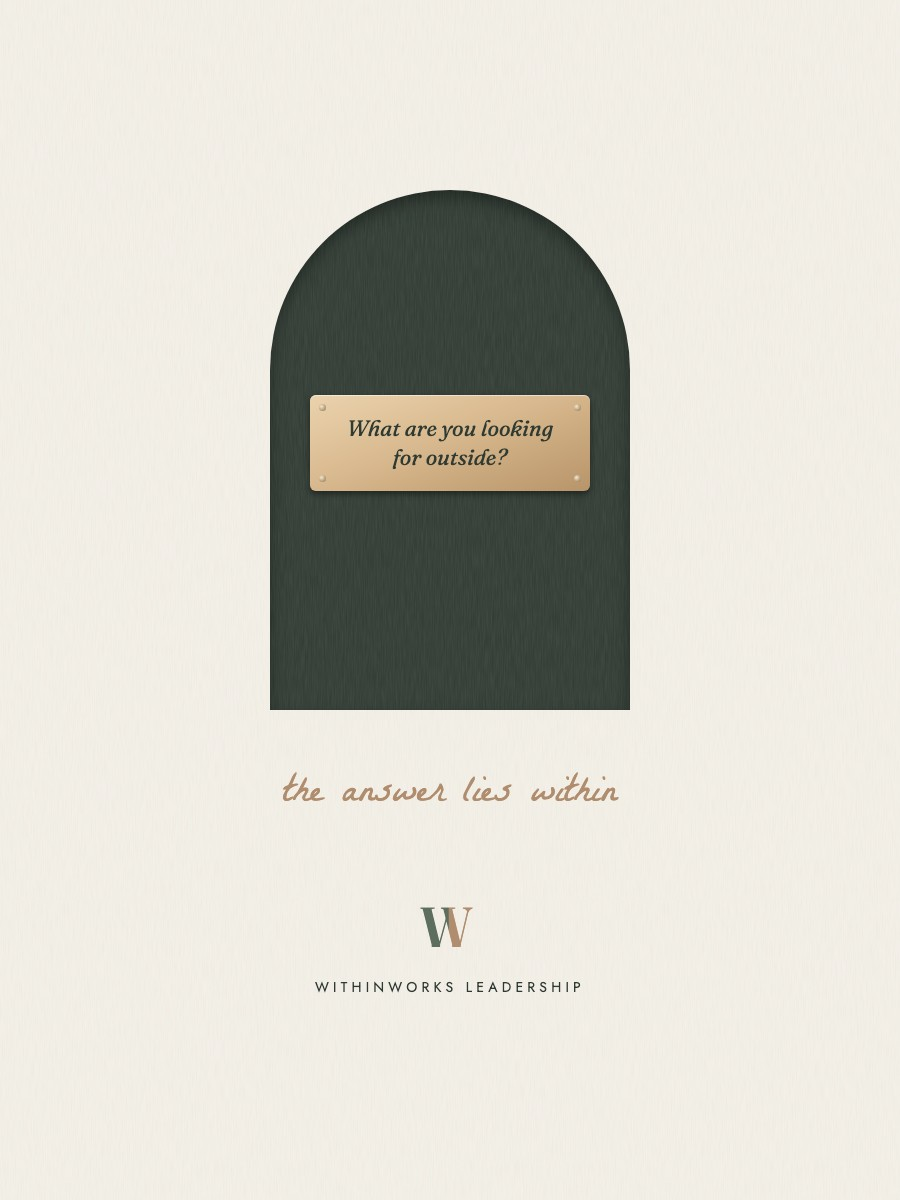
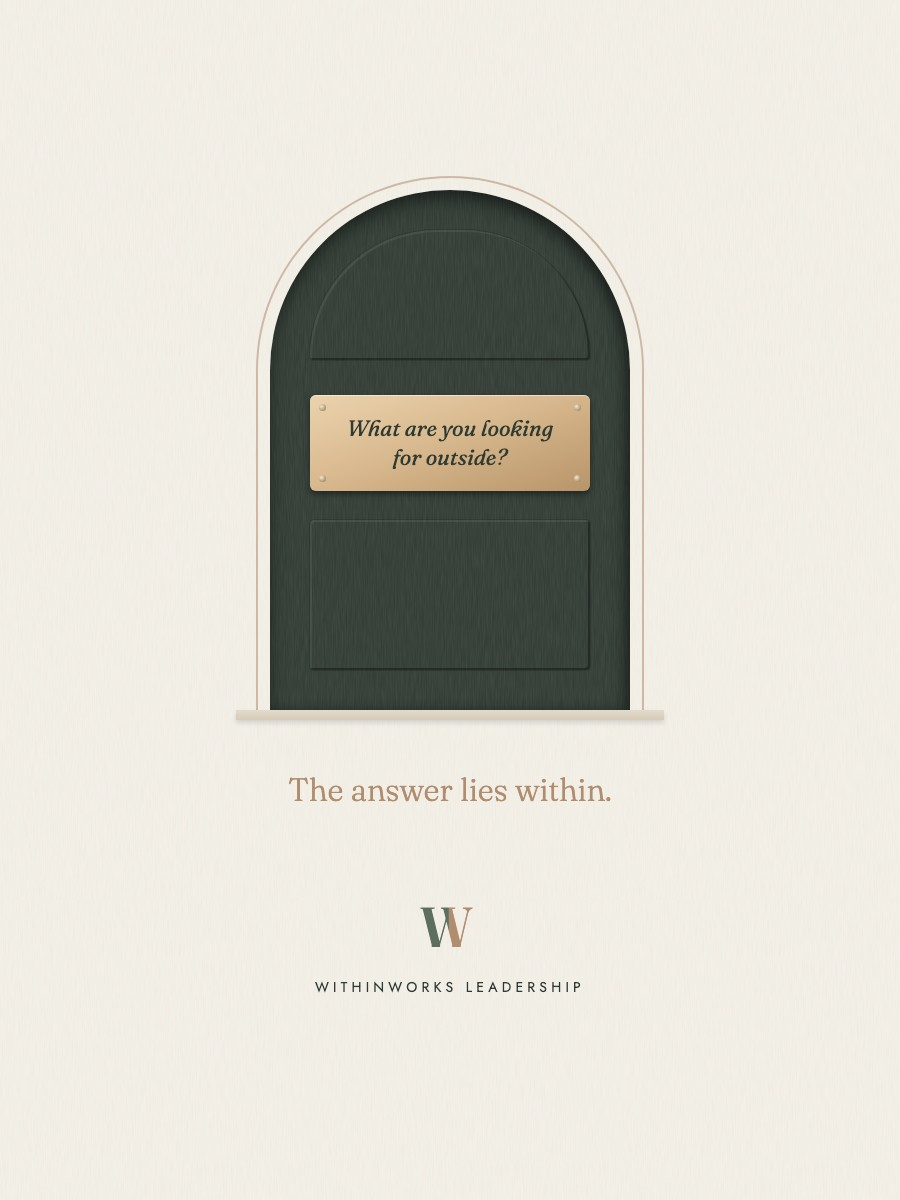
Printables: the door gets a frame, panels and a step; upright answer line

Changed region(s): [[0.2489, 0.5858, 0.7467, 0.6167], [0.3111, 0.6475, 0.6844, 0.6783]]

diff --git a/printables-test.html b/printables-test.html
@@ -19,12 +19,12 @@
 <header class="top"><div class="shell">
 <a class="brand" href="./"><svg class="mark"><use href="#ww"/></svg><span><b>WithinWorks</b><small>The Brain</small></span></a><a class="crumb" href="./">&larr; Brain</a>
 </div></header>
-<section class="page-hero"><div class="shell"><p class="eyebrow">Printables</p><h1>For the <em>hand</em></h1><p class="lede">A folder for client meetings and a small journal for the sessions. First look, before print files.</p></div></section><section><div class="shell"><div class="card" style="padding:0;overflow:hidden;margin-bottom:28px"><img src="printables/fm-a.jpg?v=1794315943" alt="Folder A, The path: front and back" style="width:100%;display:block">
-<div style="padding:22px 26px"><h3>Folder A, The path: front and back</h3><p>Front: a die-cut S-curve flap opens onto a pearl-green layer; the W and name in gold foil. Back: her words with her name and credentials, the Instagram and website QR codes, and her contact details.</p></div></div><div class="card" style="padding:0;overflow:hidden;margin-bottom:28px"><img src="printables/fi-a.jpg?v=1794315943" alt="Folder A, inside" style="width:100%;display:block">
-<div style="padding:22px 26px"><h3>Folder A, inside</h3><p>Left: the journey from her website, rising from where you are today to your next chapter. Right: a session sheet and a pocket whose wave edge echoes the front, with her card.</p></div></div><div class="card" style="padding:0;overflow:hidden;margin-bottom:28px"><img src="printables/fm-c.jpg?v=1794315943" alt="Folder B, The door: front and back" style="width:100%;display:block">
-<div style="padding:22px 26px"><h3>Folder B, The door: front and back</h3><p>The light version: an ivory cover with an arched forest door. A brass nameplate on the door asks “What are you looking for outside?”, and below the door, in her hand, “the answer lies within”. Back in ivory with forest QR codes.</p></div></div><div class="card" style="padding:0;overflow:hidden;margin-bottom:28px"><img src="printables/fi-c.jpg?v=1794315943" alt="Folder B, inside" style="width:100%;display:block">
-<div style="padding:22px 26px"><h3>Folder B, inside</h3><p>The same journey and pocket, on ivory, with an arch notch so the card lifts out easily.</p></div></div><div class="card" style="padding:0;overflow:hidden;margin-bottom:28px"><img src="printables/journal-closed.jpg?v=1794315943" alt="Journal, “Notes from within”" style="width:100%;display:block">
-<div style="padding:22px 26px"><h3>Journal, “Notes from within”</h3><p>A small A5 journal in the same linen, the W pressed into the cover, a mocha elastic band.</p></div></div><div class="card" style="padding:0;overflow:hidden;margin-bottom:28px"><img src="printables/journal-open.jpg?v=1794315943" alt="Journal, inside" style="width:100%;display:block">
+<section class="page-hero"><div class="shell"><p class="eyebrow">Printables</p><h1>For the <em>hand</em></h1><p class="lede">A folder for client meetings and a small journal for the sessions. First look, before print files.</p></div></section><section><div class="shell"><div class="card" style="padding:0;overflow:hidden;margin-bottom:28px"><img src="printables/fm-a.jpg?v=1794316170" alt="Folder A, The path: front and back" style="width:100%;display:block">
+<div style="padding:22px 26px"><h3>Folder A, The path: front and back</h3><p>Front: a die-cut S-curve flap opens onto a pearl-green layer; the W and name in gold foil. Back: her words with her name and credentials, the Instagram and website QR codes, and her contact details.</p></div></div><div class="card" style="padding:0;overflow:hidden;margin-bottom:28px"><img src="printables/fi-a.jpg?v=1794316170" alt="Folder A, inside" style="width:100%;display:block">
+<div style="padding:22px 26px"><h3>Folder A, inside</h3><p>Left: the journey from her website, rising from where you are today to your next chapter. Right: a session sheet and a pocket whose wave edge echoes the front, with her card.</p></div></div><div class="card" style="padding:0;overflow:hidden;margin-bottom:28px"><img src="printables/fm-c.jpg?v=1794316170" alt="Folder B, The door: front and back" style="width:100%;display:block">
+<div style="padding:22px 26px"><h3>Folder B, The door: front and back</h3><p>The light version: an ivory cover with an arched forest door. A brass nameplate on the door asks “What are you looking for outside?”, and below the door, upright, “The answer lies within.”. Back in ivory with forest QR codes.</p></div></div><div class="card" style="padding:0;overflow:hidden;margin-bottom:28px"><img src="printables/fi-c.jpg?v=1794316170" alt="Folder B, inside" style="width:100%;display:block">
+<div style="padding:22px 26px"><h3>Folder B, inside</h3><p>The same journey and pocket, on ivory, with an arch notch so the card lifts out easily.</p></div></div><div class="card" style="padding:0;overflow:hidden;margin-bottom:28px"><img src="printables/journal-closed.jpg?v=1794316170" alt="Journal, “Notes from within”" style="width:100%;display:block">
+<div style="padding:22px 26px"><h3>Journal, “Notes from within”</h3><p>A small A5 journal in the same linen, the W pressed into the cover, a mocha elastic band.</p></div></div><div class="card" style="padding:0;overflow:hidden;margin-bottom:28px"><img src="printables/journal-open.jpg?v=1794316170" alt="Journal, inside" style="width:100%;display:block">
 <div style="padding:22px 26px"><h3>Journal, inside</h3><p>Her own tool on every spread: the facts on the left, the story on the right, her question at the foot of the page.</p></div></div></div></section>
 <div class="shell"><nav class="doors"><a href="./">Brain</a><a href="content/">Instagram</a><a href="linkedin/">LinkedIn</a><a href="stories/">Stories</a><a href="reel-cuts/">Reels</a><a href="strategy.html">Strategy</a><a href="megha.html">Megha</a><a href="voice.html">Voice</a><a href="audience.html">Audience</a><a href="brand.html">Brand</a><a href="offers.html">Offers</a><a href="tech.html">Tech</a><a href="photos.html">Photos</a><a href="research.html">Research</a><a href="ideas.html">Ideas</a></nav></div>
 <footer><div class="shell">WithinWorks Leadership &middot; Kept by Mehr Patni &middot; Private working page</div></footer>
